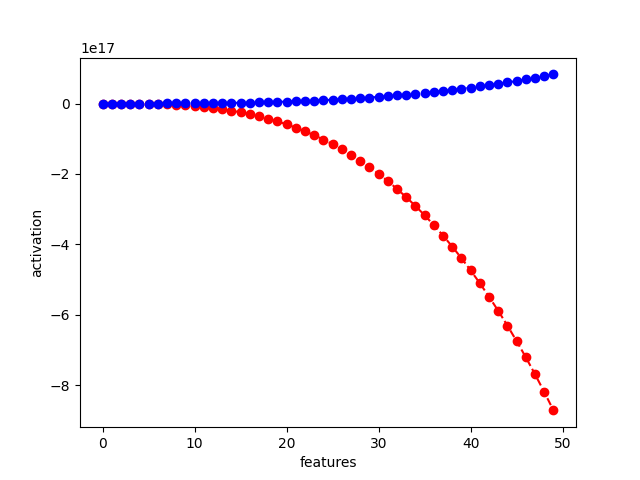
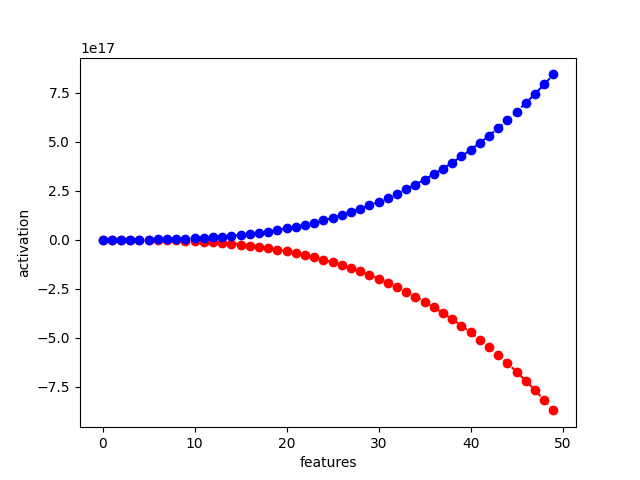
batch size works! 64

diff --git a/src/training.py b/src/training.py
@@ -21,7 +21,6 @@
     pytorch module - trains models
 """
 
-import os
 import random
 import importlib
 
@@ -40,7 +39,7 @@ import src.cech_algorithm as ca
 import torch.nn.functional as F
 
 from src.model_extractor import BATCH_SIZE
-DL_WORKERS = 0
+DL_WORKERS = 1
 
 
 def seed_worker(worker_id):
@@ -73,8 +72,8 @@ def epoch(model, epochs, names, train, test):
                 continue
 
             inputs, labels = data
-            inputs = inputs.to(ca.TORCH_DEVICE, non_blocking=True)
-            labels = labels.to(ca.TORCH_DEVICE, non_blocking=True)
+            inputs = inputs.to(ca.TORCH_DEVICE)  # , non_blocking=True)
+            labels = labels.to(ca.TORCH_DEVICE)  # , non_blocking=True)
 
             # Zero your gradients for every batch!
             opt.zero_grad()
@@ -92,7 +91,7 @@ def epoch(model, epochs, names, train, test):
             # Gather data and report
             running_loss += loss.item()
             if i % BATCH_SIZE == (BATCH_SIZE - 1):
-                last_loss = running_loss / BATCH_SIZE # loss per batch
+                last_loss = running_loss / BATCH_SIZE  # loss per batch
                 print('  batch {} loss: {}'.format(i + 1, last_loss))
                 running_loss = 0.
 
@@ -114,8 +113,8 @@ def epoch(model, epochs, names, train, test):
         with torch.no_grad():
             for i, vdata in enumerate(test):
                 vinputs, vlabels = vdata
-                vinputs = vinputs.to(ca.TORCH_DEVICE, non_blocking=True)
-                vlabels = vlabels.to(ca.TORCH_DEVICE, non_blocking=True)
+                vinputs = vinputs.to(ca.TORCH_DEVICE)  # , non_blocking=True)
+                vlabels = vlabels.to(ca.TORCH_DEVICE)  # , non_blocking=True)
                 voutputs = model(vinputs)
                 vloss = loss_fn(voutputs, vlabels)
                 running_vloss += vloss
@@ -179,11 +178,11 @@ def interpolate_model_train(model, train, step, names):
     # collate fn None raises errors so we use default collate to force
     # collation
     train_s = DataLoader(train_s,
-                         pin_memory=True, persistent_workers=False,
+                         pin_memory=True, persistent_workers=True,
                          batch_size=BATCH_SIZE, num_workers=DL_WORKERS,
                          worker_init_fn=seed_worker) # , collate_fn=collate_fn)
 
-    test_s = DataLoader(test_s, pin_memory=True, persistent_workers=False,
+    test_s = DataLoader(test_s, pin_memory=True, persistent_workers=True,
                         batch_size=BATCH_SIZE, num_workers=DL_WORKERS,
                         worker_init_fn=seed_worker) # , collate_fn=collate_fn)
 

diff --git a/src/testing_and_output.py b/src/testing_and_output.py
@@ -244,6 +244,8 @@ def model_create_equation(model, names, dataset, in_shape, test_rounds):
             print(diff)
             print("TTEST TEST VS CTRL DIFF:")
             print(tvsctrl)
+            [m1, m2, diff, tvsctrl] = [np.mean(x) for
+                                       x in [m1, m2, diff, tvsctrl]]
 
             tests.append({'eval': m1.tolist(),
                           'test': m2.tolist(),

diff --git a/src/model_extractor.py b/src/model_extractor.py
@@ -29,7 +29,7 @@ import numpy as np
 
 # something sane here
 # 512 just over 24 GB of VRAM
-BATCH_SIZE = 512 
+BATCH_SIZE = 64
 
 
 # looks up each activation from csv and then defines a function to it
